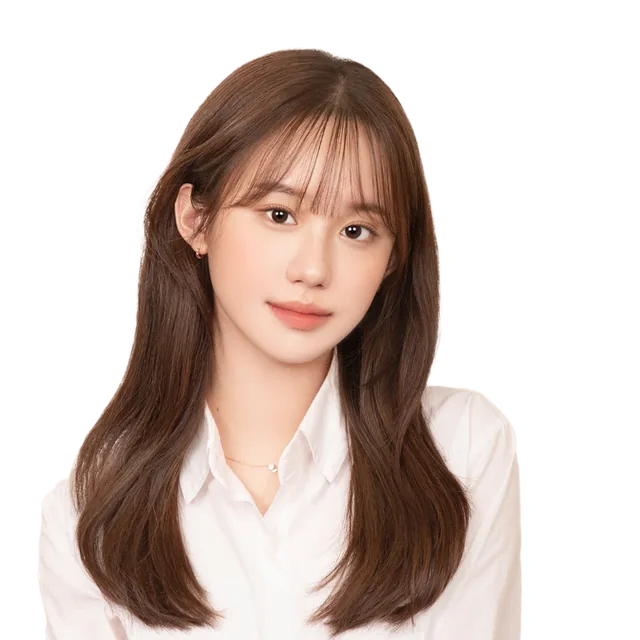
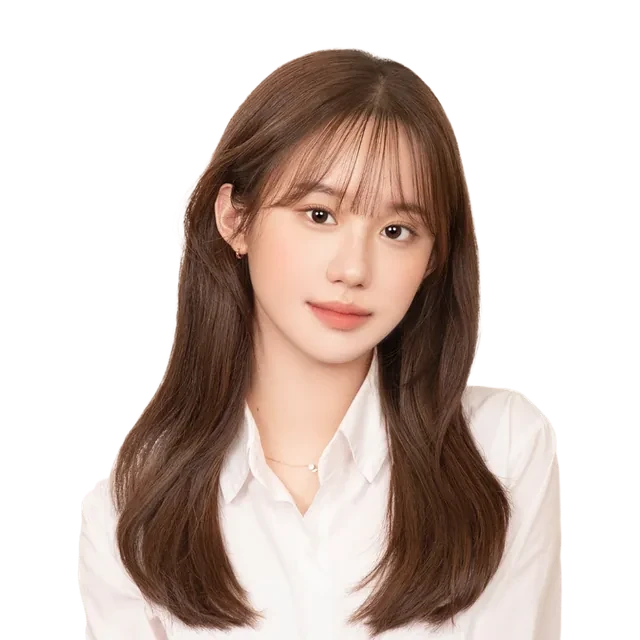
상담 안내 데스크 전화 먼저, 방학특강을 학년 버튼 '방학특강'으로 모음, 김정윤 사진 오른쪽으로 40px [skip netlify]
Claude-Session: https://claude.ai/code/session_011njH4VrcbwY3RkzXYRCqaz

diff --git a/js/site.js b/js/site.js
@@ -41,7 +41,8 @@ document.getElementById('t-filter-bar').addEventListener('click',e=>{
 const CLASS_API='https://script.google.com/macros/s/AKfycbyJaGLC1QJplM-Ij3PmnwtXrygEDW8kVNqvuJp6MOQdpUNGszal6AbzbzFYKm3_sb1E/exec?site=home';
 const CLASS_CACHE='mate_classes_home';
 const GRADE_BASE=['예비고1','고1','고2'];          /* 수업이 없어도 늘 보이는 학년 버튼 */
-const GRADE_ORDER=['예비고1','고1','고2','고3','N수'];
+const GRADE_ORDER=['예비고1','고1','고2','고3','N수','방학특강'];
+const VAC_KEY='방학특강';   /* 구분이 겨울·여름인 반은 학년과 상관없이 이 버튼 하나로 모음 (시트 수정 불필요) */
 const GRADE_LABEL={'예비고1':'예비고1·중3'};
 const KIND_ORDER={'정규':0,'겨울':1,'여름':2};
 const SEASON={'겨울':{cls:'s-winter',badge:'<span class="sc-badge sc-winter">❄ 겨울방학 특강</span>'},
@@ -80,7 +81,7 @@ function buildSchedule(data){
   const ko=k=>KIND_ORDER[k]==null?9:KIND_ORDER[k],so=s=>{const i=SUBJ_ORDER.indexOf(s);return i<0?99:i;};
   list.sort((a,b)=>ko(a.kind)-ko(b.kind)||so(a.subj)-so(b.subj));
   const out={};
-  list.forEach(it=>it.grades.forEach(g=>(out[g]=out[g]||[]).push(it)));
+  list.forEach(it=>{if(SEASON[it.kind])(out[VAC_KEY]=out[VAC_KEY]||[]).push(it);else it.grades.forEach(g=>(out[g]=out[g]||[]).push(it));});
   SCHEDULE=out;
 }
 function gradeKeys(){
@@ -135,7 +136,7 @@ function renderSchedule(){
   const base=curGrade==='전체'?allItems():(SCHEDULE[curGrade]||[]);
   const items=base.filter(it=>curSubj==='전체'||it.subj===curSubj);
   if(!items.length){grid.innerHTML=`<div class="sched-empty" style="grid-column:1/-1">${base.length?'해당 조건의 수업이 없습니다.':'현재 안내 중인 수업이 없습니다. 학원으로 문의해 주세요.'}</div>`;return;}
-  grid.innerHTML=items.map(it=>cardHtml(it,{teacher:true,gradeChip:curGrade==='전체'})).join('');
+  grid.innerHTML=items.map(it=>cardHtml(it,{teacher:true,gradeChip:(curGrade==='전체'||curGrade===VAC_KEY)&&it.gradeText&&it.gradeText!=='기타'})).join('');
 }
 function applyClasses(data){buildSchedule(data);schedState='ok';setUpdated(data.updated);renderSchedule();}
 function loadSchedule(){

diff --git a/gimpo.html b/gimpo.html
@@ -199,20 +199,20 @@
   <div class="sec-label">상담 안내</div>
   <h2 class="sec-h2" style="margin-bottom:28px">궁금한 점은<br/><em>언제든 물어보세요</em></h2>
   <div class="cs-primary">
-    <a href="http://pf.kakao.com/_xfAZaX/chat" target="_blank" rel="noopener" class="cs-action cs-kakao">
-      <div class="ca-icon-wrap">💬</div>
-      <div>
-        <div class="ca-lbl">카카오톡 상담 · 메인 문의</div>
-        <div class="ca-val">너를위한 메이트학원 채널</div>
-        <div class="ca-sub">학교 / 학년 / 상담 희망 과목을 남겨 주세요</div>
-      </div>
-    </a>
-    <a href="tel:03180490716" class="cs-action">
+    <a href="tel:03180490716" class="cs-action primary-or">
       <div class="ca-icon-wrap">📞</div>
       <div>
         <div class="ca-lbl">학원 데스크</div>
         <div class="ca-val">031-8049-0716</div>
         <div class="ca-sub">평일 운영 중</div>
+      </div>
+    </a>
+    <a href="http://pf.kakao.com/_xfAZaX/chat" target="_blank" rel="noopener" class="cs-action cs-kakao">
+      <div class="ca-icon-wrap">💬</div>
+      <div>
+        <div class="ca-lbl">카카오톡 상담</div>
+        <div class="ca-val">너를위한 메이트학원 채널</div>
+        <div class="ca-sub">학교 / 학년 / 상담 희망 과목을 남겨 주세요</div>
       </div>
     </a>
   </div>

diff --git a/mokdong.html b/mokdong.html
@@ -198,20 +198,20 @@
   <div class="sec-label">상담 안내</div>
   <h2 class="sec-h2" style="margin-bottom:28px">궁금한 점은<br/><em>언제든 물어보세요</em></h2>
   <div class="cs-primary">
-    <a href="http://pf.kakao.com/_AALWX/chat" target="_blank" rel="noopener" class="cs-action cs-kakao">
-      <div class="ca-icon-wrap">💬</div>
-      <div>
-        <div class="ca-lbl">카카오톡 상담 · 메인 문의</div>
-        <div class="ca-val">에듀메이트학원 채널</div>
-        <div class="ca-sub">학교 / 학년 / 상담 희망 과목을 남겨 주세요</div>
-      </div>
-    </a>
-    <a href="tel:0267369505" class="cs-action">
+    <a href="tel:0267369505" class="cs-action primary-or">
       <div class="ca-icon-wrap">📞</div>
       <div>
         <div class="ca-lbl">학원 데스크</div>
         <div class="ca-val">02-6736-9505</div>
         <div class="ca-sub">평일 16:00 ~ 22:00</div>
+      </div>
+    </a>
+    <a href="http://pf.kakao.com/_AALWX/chat" target="_blank" rel="noopener" class="cs-action cs-kakao">
+      <div class="ca-icon-wrap">💬</div>
+      <div>
+        <div class="ca-lbl">카카오톡 상담</div>
+        <div class="ca-val">에듀메이트학원 채널</div>
+        <div class="ca-sub">학교 / 학년 / 상담 희망 과목을 남겨 주세요</div>
       </div>
     </a>
   </div>
